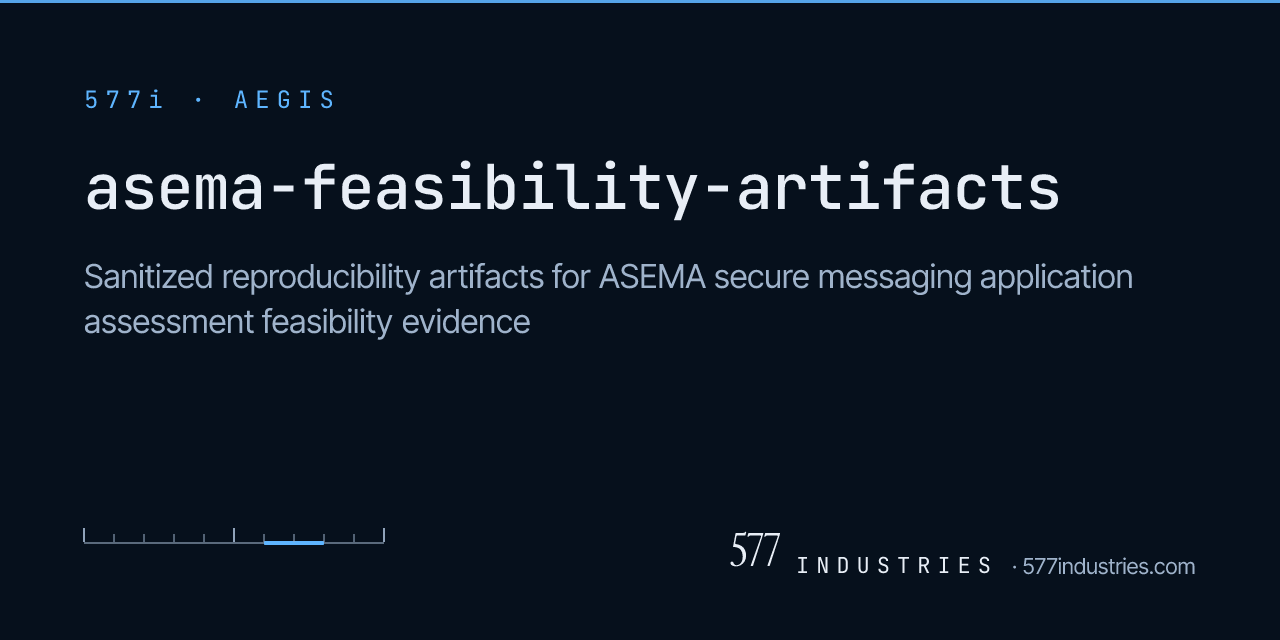
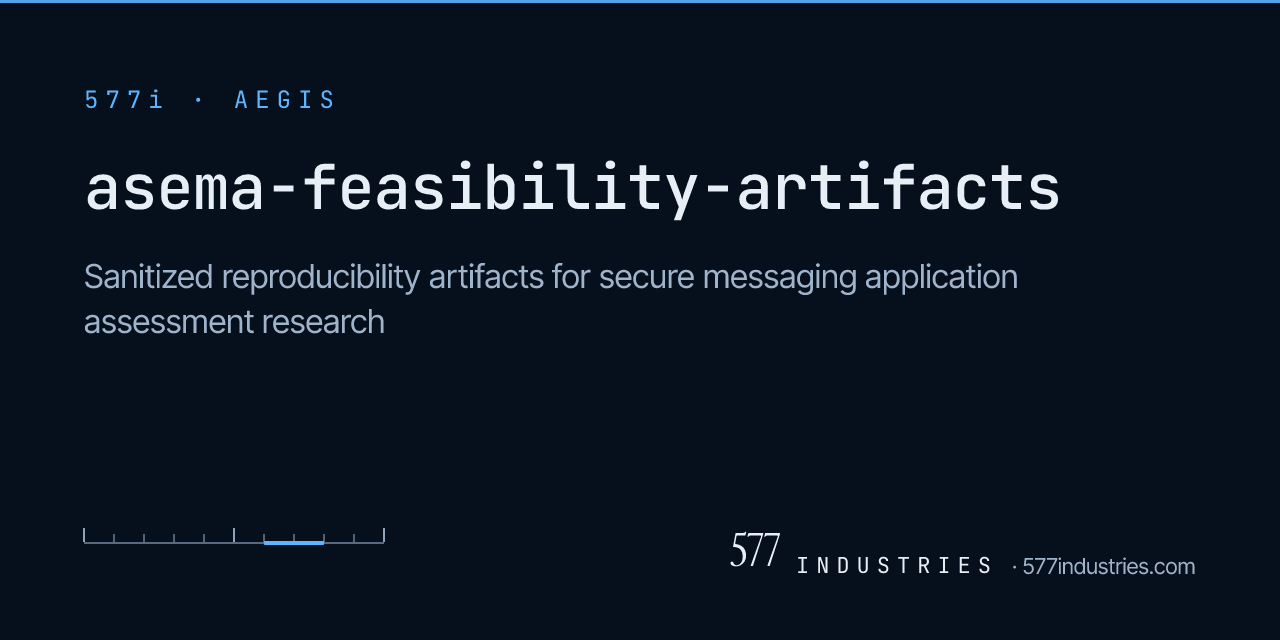
Organization profile and standards: each program described by what it is
Takes the same text as the organization files in 577Industries/open-source
(.github-org at 64212f1a), so the two copies are identical again.

- Profile: each program is described by what it is and does. The Evolve
  reference follows its repository's ERRATUM.md. AegisGraph and its review
  collection are presented as one project.
- Standards, contributing guide and security policy: the freeze rule is
  stated generally, and no repository is frozen. The security policy no
  longer says some repositories are under evaluation.
- Brand: three blurbs in repos.json, and their three social cards
  regenerated with brand/build.mjs (the other ten are unchanged).

Changed region(s): [[0.4688, 0.4062, 0.875, 0.4688], [0.1875, 0.4688, 0.4062, 0.5312]]

diff --git a/profile/README.md b/profile/README.md
@@ -39,7 +39,7 @@ flowchart LR
     ORG --- QS["⚛ QSPARX<br/>post-quantum migration planning"]
     HELIOS --- hp["helios-program<br/>+ 4 artifact repos"]
     EVOLVE --- fe["forge-evolve-tmpc"]
-    AEGIS --- ag["aegisgraph · asema-feasibility-artifacts"]
+    AEGIS --- ag["aegisgraph<br/>engine + review collection"]
     FOS --- fl["forge-os-libs<br/>5 packages, one repo"]
     FI --- fi["forge-intelligence"]
     QS --- qs["forge-qbit-qsparx"]
@@ -50,16 +50,14 @@ flowchart LR
 
 ## HELIOS — Calibrated Heliophysics Fusion
 
-![status](https://img.shields.io/badge/NASA_SBIR_Phase_I-under_evaluation-0b3d91?style=flat-square) ![phase-ii](https://img.shields.io/badge/Phase_II-evidence_in_assembly-009688?style=flat-square)
-
-Multi-source space-weather fusion with feature-level provenance and calibrated uncertainty. Two vertical slices: NASA SRAG mission-operations radiation risk and U.S. precision-agriculture GNSS reliability. NASA SBIR subtopic **SPWX.1.S26A**, submitted 2026-05-18, currently under NASA evaluation.
+Multi-source space-weather fusion with feature-level provenance and calibrated uncertainty. Two vertical slices: mission-operations radiation risk and U.S. precision-agriculture GNSS reliability.
 
 > [!NOTE]
 > **Headline result.** During the May 2024 Gannon G5 superstorm, **1,302 station-hours** of U.S. row-crop GNSS pushed past the 2.5 cm RTK tolerance — the first citable quantification of solar-storm impact on U.S. agriculture. (Climatological v1; real-SPP v2 in progress.)
 
 | Repository | Purpose |
 |---|---|
-| [`helios-program`](https://github.com/577Industries/helios-program) | Umbrella meta-repo · master plan, companion doc, 4 submodules |
+| [`helios-program`](https://github.com/577Industries/helios-program) | Umbrella meta-repo · master plan, 4 submodules |
 | [`helios-provenance-spec`](https://github.com/577Industries/helios-provenance-spec) | JSON Schema 2020-12 + W3C PROV-JSON RFC for feature-level lineage |
 | [`helios-spaceweather-connectors`](https://github.com/577Industries/helios-spaceweather-connectors) | 6 production adapters · DONKI, SEP A/B/C, SWPC, GOES, DSCOVR, CDDIS GIMs |
 | [`helios-fusion-engine`](https://github.com/577Industries/helios-fusion-engine) | BMA + isotonic + Mondrian conformal calibration · arXiv preprint draft |
@@ -69,18 +67,18 @@ Multi-source space-weather fusion with feature-level provenance and calibrated u
 
 ---
 
-## FORGE EVOLVE for TMPC — AI-assisted modernization of mission-planning software
+## FORGE EVOLVE for TMPC — a verification harness for modernized mission-planning software
 
-![status](https://img.shields.io/badge/Navy_SBIR_Phase_I-DON26BZ01--NV013-1c3d6e?style=flat-square) [![demo-offline](https://img.shields.io/github/actions/workflow/status/577Industries/forge-evolve-tmpc/demo-offline.yml?style=flat-square&label=demo-offline)](https://github.com/577Industries/forge-evolve-tmpc/actions/workflows/demo-offline.yml)
+[![demo-offline](https://img.shields.io/github/actions/workflow/status/577Industries/forge-evolve-tmpc/demo-offline.yml?style=flat-square&label=demo-offline)](https://github.com/577Industries/forge-evolve-tmpc/actions/workflows/demo-offline.yml)
 
-Behavioral-equivalence-verified AI modernization of legacy C#/.NET mission-planning software, with continuous-ATO evidence generated as a byproduct. Targets the U.S. Navy Theater Mission Planning Center (TMPC, NAVAIR PMA-281), topic **DON26BZ01-NV013** (26.B Release 1); response in preparation. This is the C#/.NET extension of 577's FORGE EVOLVE modernization framework, reproducible offline by reviewers with no API keys.
+A C#/.NET reference for the verification side of code modernization: a differential harness that runs a legacy mission-planning component against its modernized replacement, with continuous-ATO evidence generated as a byproduct. The workload is a synthetic, unclassified surrogate shaped like Theater Mission Planning Center (TMPC) software. It is the C#/.NET extension of 577's FORGE EVOLVE modernization framework and runs offline with no API keys. The repository's [`ERRATUM.md`](https://github.com/577Industries/open-source/blob/main/programs/evolve/forge-evolve-tmpc/ERRATUM.md) states what it does and does not show.
 
 > [!NOTE]
-> **Headline result.** On a synthetic, unclassified MDS-like surrogate, a modernized .NET 8 component reproduces its legacy counterpart on **2000/2000 corpus vectors with zero violations** (95% rule-of-three upper bound ≈1.5×10⁻³ on the per-vector deviation rate). The validation oracle separately flags **321 latent legacy defects** as engineering-change findings, and STIG, NIST 800-53, CycloneDX SBOM, and a tamper-evident provenance hashchain are emitted automatically. Preliminary; **not government-validated**.
+> **Headline result.** On a synthetic, unclassified MDS-like surrogate, a hand-refactored .NET 8 component reproduces its legacy counterpart on **2000/2000 corpus vectors** (95% rule-of-three upper bound ≈1.5×10⁻³ on the per-vector deviation rate), and Roslyn measures cyclomatic complexity falling from 49 to 6. STIG, NIST 800-53, CycloneDX SBOM, and a tamper-evident provenance hashchain are emitted automatically. No language model produced the modern component, so the result demonstrates the harness, not automated modernization. Preliminary; **not government-validated**.
 
 | Repository | Purpose |
 |---|---|
-| [`forge-evolve-tmpc`](https://github.com/577Industries/forge-evolve-tmpc) | Runnable C#/.NET reference implementation · Discovery (Roslyn) → CLAR → migration planning → multi-agent transform → behavioral-equivalence validation → cATO artifacts, on a synthetic MDS-like surrogate · `make demo` runs offline and byte-deterministic · 137 tests · CI green on Linux + Windows · Apache-2.0 |
+| [`forge-evolve-tmpc`](https://github.com/577Industries/forge-evolve-tmpc) | Runnable C#/.NET reference · Roslyn discovery, differential equivalence validation and cATO artifacts on a synthetic MDS-like surrogate; the transform stage replays hand-refactored files (see `ERRATUM.md`) · `make demo` runs offline and byte-deterministic · 137 tests · Apache-2.0 |
 
 Consumes [`@577-industries/model-router`](https://github.com/577Industries/forge-os-libs/tree/main/packages/model-router) for air-gappable, sovereign-profile model routing.
 
@@ -88,19 +86,19 @@ Consumes [`@577-industries/model-router`](https://github.com/577Industries/forge
 
 ---
 
-## DARPA ASEMA — Secure Messaging Assessment (AEGIS)
+## AEGIS — Secure Messaging Assessment
 
-![contract](https://img.shields.io/badge/contract-HR0011SB20254--12-grey?style=flat-square) ![status](https://img.shields.io/badge/Tier_3-under_evaluation-555?style=flat-square)
-
-Graph-based application-layer evidence platform for assessing Secure Messaging Applications (project codename **AEGIS**). DARPA contract HR0011SB20254-12, Tier 3 research, currently under active DARPA evaluation.
+Graph-based application-layer evidence platform for assessing Secure Messaging Applications (project codename **AEGIS**).
 
 > [!IMPORTANT]
-> Program materials and evaluation evidence remain intentionally limited. Published artifacts are the sanitized reproducibility set only.
+> Published artifacts are the sanitized reproducibility set only; other project materials are not published.
 
-| Repository | Status |
+| Repository | Purpose |
 |---|---|
-| [`aegisgraph`](https://github.com/577Industries/aegisgraph) | Feasibility artifact · sanitize-check gates every public export |
-| [`asema-feasibility-artifacts`](https://github.com/577Industries/asema-feasibility-artifacts) | Sanitized reproducibility artifacts · consolidated into the org 2026-07. GitHub redirects the repository URL from the former founder-account path; GitHub Pages URLs are not redirected on transfer, so the documents are served at [577industries.github.io/asema-feasibility-artifacts](https://577industries.github.io/asema-feasibility-artifacts/) |
+| [`aegisgraph`](https://github.com/577Industries/aegisgraph) | Assessment evidence platform · sanitize-check gates every public export |
+| [AegisGraph review collection](https://github.com/577Industries/asema-feasibility-artifacts) | Sanitized reproducibility artifacts for AegisGraph · consolidated into the org 2026-07. GitHub redirects the repository URL from the former founder-account path; GitHub Pages URLs are not redirected on transfer, so the documents are served at [the collection's GitHub Pages site](https://577industries.github.io/asema-feasibility-artifacts/) |
+
+In the [`open-source`](https://github.com/577Industries/open-source) monorepo the two are one project: the collection lives inside AegisGraph at [`programs/aegis/aegisgraph/review-collection/`](https://github.com/577Industries/open-source/tree/main/programs/aegis/aegisgraph/review-collection).
 
 ---
 
@@ -157,9 +155,8 @@ Evidence-first synthetic cryptographic mission twin for planning post-quantum mi
 | Date | Update |
 |---|---|
 | **2026-08-09** | FORGE OS libraries consolidated into [`forge-os-libs`](https://github.com/577Industries/forge-os-libs) (npm packages unchanged); FORGE INTELLIGENCE and QSPARX added as programs; reproducibility fixes across the HELIOS toolchain |
-| **2026-07-07** | GitHub presence consolidated: ASEMA artifacts transferred into the org (redirects preserved), org-wide brand system + repo standards shipped, `v1.0.0` releases tagged across the FORGE OS libraries |
-| **2026-06-01** | FORGE EVOLVE for TMPC reference implementation published · Navy SBIR DON26BZ01-NV013 · `make demo` reproducible offline · CI green on Linux + Windows |
-| **2026-05-18** | HELIOS NASA SBIR Phase I proposal submitted · now under NASA evaluation · Phase II evidence in assembly |
+| **2026-07-07** | GitHub presence consolidated: AEGIS artifacts transferred into the org (redirects preserved), org-wide brand system + repo standards shipped, `v1.0.0` releases tagged across the FORGE OS libraries |
+| **2026-06-01** | FORGE EVOLVE for TMPC reference implementation published · `make demo` reproducible offline · CI green on Linux + Windows |
 | **2026-03** | `forge-workflow-dag` and `forge-hashchain-audit` patents described |
 | **2026-02** | `forge-model-router` patent described |
 | **2025-12** | `forge-agent-memory` patent described · first FORGE OS library shipped to npm |

diff --git a/CONTRIBUTING.md b/CONTRIBUTING.md
@@ -8,9 +8,9 @@ Work is grouped into **programs**, each marked by a `577i-program-*` topic on it
 
 | Program | Topic | What it is |
 |---|---|---|
-| HELIOS | `577i-program-helios` | Calibrated heliophysics fusion (NASA SBIR) |
-| FORGE EVOLVE | `577i-program-forge-evolve` | AI-assisted legacy modernization (Navy SBIR) |
-| AEGIS | `577i-program-aegis` | Secure-messaging assessment (DARPA ASEMA) |
+| HELIOS | `577i-program-helios` | Calibrated heliophysics fusion |
+| FORGE EVOLVE | `577i-program-forge-evolve` | AI-assisted legacy modernization |
+| AEGIS | `577i-program-aegis` | Secure-messaging assessment |
 | FORGE OS | `577i-program-forge-os` | Reusable TypeScript agent-infrastructure libraries |
 
 Conventions that every repo follows (topics, badges, README shape, releases) are written down in [`docs/repo-standards.md`](https://github.com/577Industries/.github/blob/main/docs/repo-standards.md).
@@ -22,9 +22,9 @@ Conventions that every repo follows (topics, badges, README shape, releases) are
 - **Tests ride along** — a behavior change without a test needs a stated reason.
 - **Claims need evidence** — if a README or doc states a number, it must be reproducible from the repo or cited. This is a firm house rule.
 
-## Evaluation-frozen repositories
+## Frozen repositories
 
-Repositories under active government evaluation say so in their READMEs (currently the AEGIS program repos). During an evaluation window they **accept issues but not external PRs**, and their names, URLs, and descriptions are frozen. Security reports are always welcome — see [SECURITY.md](SECURITY.md).
+A repository whose URLs are cited in a document under external review can be frozen: it then **accepts issues but not external PRs**, and its name, URL, and description do not change. No repository is frozen at present. Security reports are always welcome — see [SECURITY.md](SECURITY.md).
 
 ## Questions and contact
 

diff --git a/docs/repo-standards.md b/docs/repo-standards.md
@@ -67,7 +67,7 @@ Generated by `brand/build.mjs` (`node build.mjs social`) into `brand/out/social/
 
 ## 8. Hard rules (never do these)
 
-- **Never recreate `asema-feasibility-artifacts` under the `577-Industries` personal account.** The repo was transferred to the org 2026-07-07; GitHub's permanent redirect (which DARPA-cited URLs depend on) survives only while that name stays unclaimed on the old owner. The same applies to any transferred repo name: old-owner names are reserved-forever.
-- **Never rename, re-describe, or take private a repo during a government evaluation window.** Currently frozen: `aegisgraph` (+ `asema-feasibility-artifacts` content) until the DARPA ASEMA evaluation closes.
+- **Never recreate `asema-feasibility-artifacts` under the `577-Industries` personal account.** The repo was transferred to the org 2026-07-07; GitHub's permanent redirect (which externally cited URLs depend on) survives only while that name stays unclaimed on the old owner. The same applies to any transferred repo name: old-owner names are reserved-forever.
+- **Never rename, re-describe, or take private a repo while it is frozen** (its URLs are cited in a document under external review). No repository is frozen at present.
 - **Never state a number in a README that isn't reproducible from the repo or cited.** (House rule; also enforced on the website by `audit:truthfulness`.)
 - **Never create company repos under the personal account** — always `577Industries`.

diff --git a/SECURITY.md b/SECURITY.md
@@ -34,6 +34,6 @@ Good-faith security research conducted within this policy is authorized. We will
 - Findings that require a compromised developer machine or stolen credentials as a precondition
 - Reports generated by automated scanners without a demonstrated impact
 
-## Evaluation-frozen repositories
+## Frozen repositories
 
-Some repositories are under active government evaluation (noted in their READMEs). Security reports on them are welcome and handled under this same policy — but fixes may land as advisories first, with code changes batched after the evaluation window, to preserve artifact stability.
+A repository can be frozen while its URLs are cited in a document under external review (see [CONTRIBUTING.md](CONTRIBUTING.md)). Security reports on a frozen repository are welcome and handled under this same policy, but fixes may land as advisories first, with code changes batched after the freeze, to preserve artifact stability. No repository is frozen at present.
